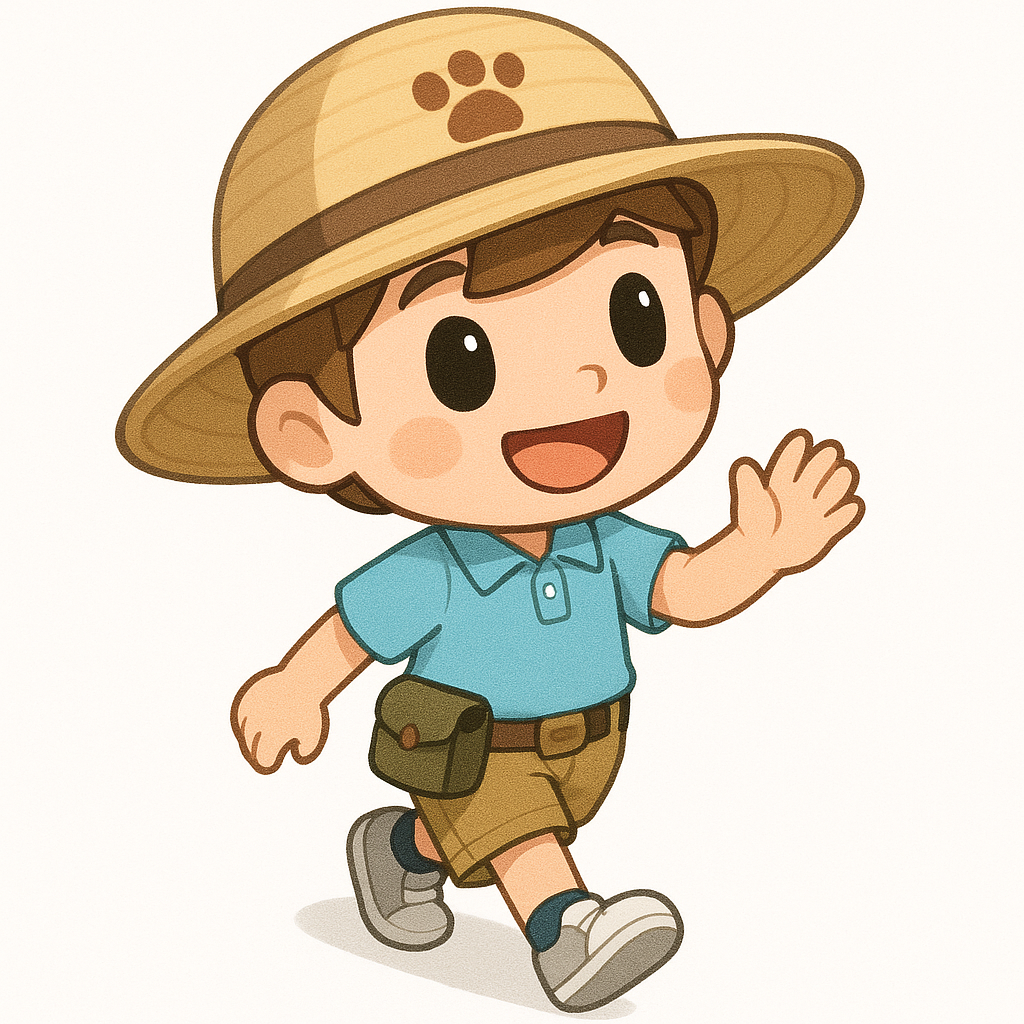
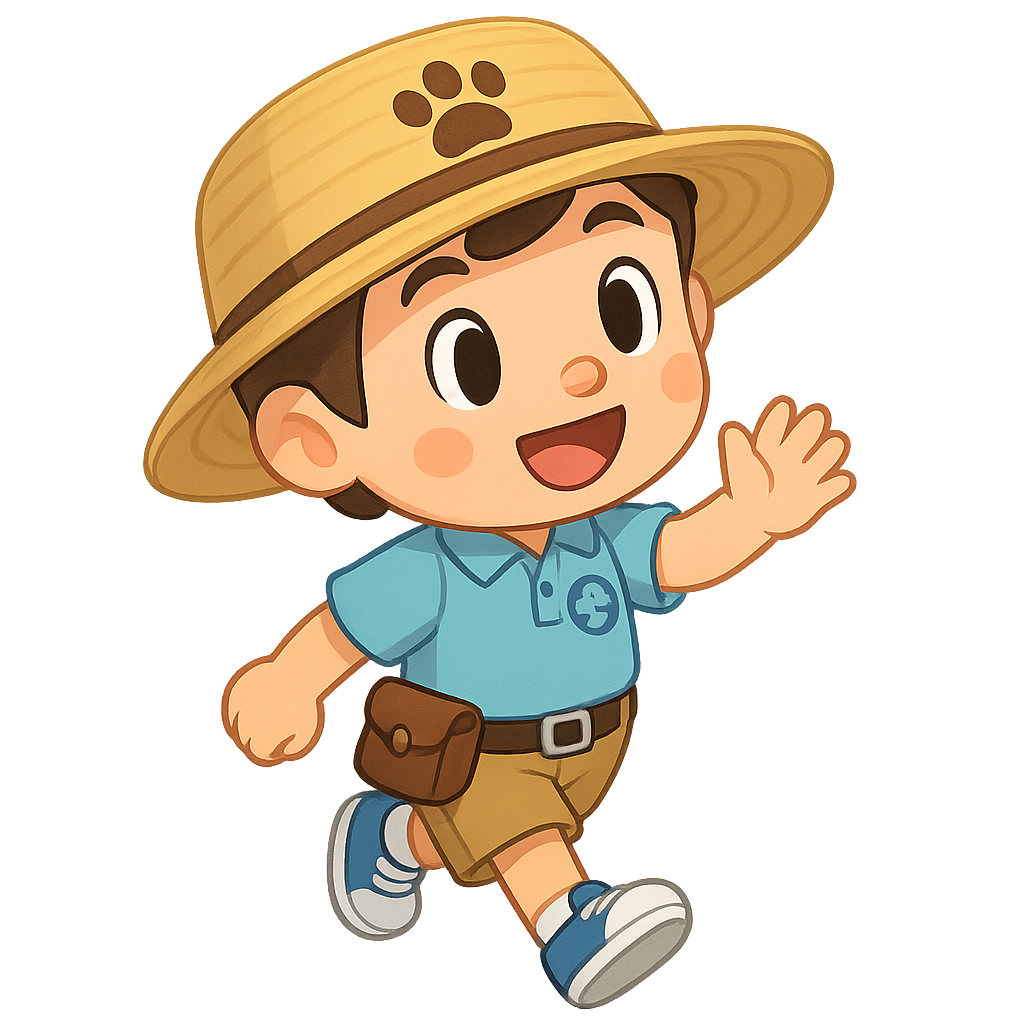
feat(petnna): AI 생성 필드 이미지 + 투명배경 캐릭터 (v154)
- SVG 필드(20KB) → dog_paradise_field.png AI 생성 이미지로 교체
- Park Manager / Bingo 코기 → RGBA 투명배경 PNG로 재생성
- 버전 v154

Changed region(s): [[0.0938, 0.0, 0.8438, 1.0]]

diff --git a/projects/petnna/js/templates/mypet.js b/projects/petnna/js/templates/mypet.js
@@ -289,299 +289,7 @@ const MYPET_TEMPLATE = `
                 <!-- 스테이지: 불규칙 배치 (집사 중앙, 펫들 주변) -->
                 <div class="room-stage relative w-full h-[360px] md:h-[420px] flex items-center justify-center pt-5 pb-3">
                     <!-- Dog Paradise Field (isometric) -->
-                    <svg aria-hidden="true" class="room-decor-layer"
-                         viewBox="0 0 100 100" preserveAspectRatio="none"
-                         xmlns="http://www.w3.org/2000/svg"
-                         style="position:absolute;inset:0;width:100%;height:100%;z-index:0;pointer-events:none;border-radius:inherit;">
-                      <defs>
-                        <linearGradient id="dpSky" x1="0" y1="0" x2="0" y2="1">
-                          <stop offset="0%"   stop-color="#2878d8"/>
-                          <stop offset="100%" stop-color="#80c8f8"/>
-                        </linearGradient>
-                        <linearGradient id="dpGrass" x1="0" y1="0" x2="0" y2="1">
-                          <stop offset="0%"   stop-color="#98d840"/>
-                          <stop offset="100%" stop-color="#4a9808"/>
-                        </linearGradient>
-                        <linearGradient id="dpPool" x1="0" y1="0" x2="1" y2="1">
-                          <stop offset="0%"   stop-color="#50d0f8"/>
-                          <stop offset="50%"  stop-color="#18a8e0"/>
-                          <stop offset="100%" stop-color="#0878b0"/>
-                        </linearGradient>
-                        <linearGradient id="dpBldg" x1="0" y1="0" x2="1" y2="0">
-                          <stop offset="0%"   stop-color="#e8a060"/>
-                          <stop offset="100%" stop-color="#b87030"/>
-                        </linearGradient>
-                        <linearGradient id="dpPath" x1="0" y1="0" x2="0" y2="1">
-                          <stop offset="0%"   stop-color="#dcc888"/>
-                          <stop offset="100%" stop-color="#b89848"/>
-                        </linearGradient>
-                        <linearGradient id="dpDeck" x1="0" y1="0" x2="0" y2="1">
-                          <stop offset="0%"   stop-color="#f0e0b0"/>
-                          <stop offset="100%" stop-color="#d8c888"/>
-                        </linearGradient>
-                        <radialGradient id="dpSun" cx="80%" cy="0%" r="70%">
-                          <stop offset="0%"   stop-color="rgba(255,240,160,0.22)"/>
-                          <stop offset="100%" stop-color="rgba(255,240,160,0)"/>
-                        </radialGradient>
-                      </defs>
-
-                      <!-- ══ 하늘 ══ -->
-                      <rect x="0" y="0" width="100" height="27" fill="url(#dpSky)"/>
-                      <!-- 태양 -->
-                      <circle cx="84" cy="7" r="6" fill="#ffe840" opacity="0.75"/>
-                      <circle cx="84" cy="7" r="4" fill="#fff8b0" opacity="0.95"/>
-                      <!-- 구름 1 (왼쪽) -->
-                      <ellipse cx="16" cy="8"  rx="11" ry="4"   fill="white" opacity="0.96"/>
-                      <ellipse cx="11" cy="9"  rx="7"  ry="3.5" fill="white"/>
-                      <ellipse cx="21" cy="9"  rx="7"  ry="3"   fill="white"/>
-                      <ellipse cx="16" cy="6"  rx="6"  ry="3"   fill="white" opacity="0.9"/>
-                      <!-- 구름 2 (오른쪽) -->
-                      <ellipse cx="56" cy="6"  rx="10" ry="3.5" fill="white" opacity="0.88"/>
-                      <ellipse cx="51" cy="7"  rx="7"  ry="3"   fill="white" opacity="0.9"/>
-                      <ellipse cx="61" cy="7"  rx="6"  ry="2.5" fill="white" opacity="0.85"/>
-
-                      <!-- ══ 배경 절벽/언덕 ══ -->
-                      <ellipse cx="8"   cy="27" rx="20" ry="9"  fill="#70b828"/>
-                      <ellipse cx="35"  cy="25" rx="28" ry="9"  fill="#88cc30"/>
-                      <ellipse cx="68"  cy="26" rx="26" ry="8"  fill="#78c028"/>
-                      <ellipse cx="96"  cy="28" rx="18" ry="7"  fill="#68b020"/>
-                      <!-- 언덕 하이라이트 -->
-                      <ellipse cx="35"  cy="22" rx="16" ry="4"  fill="rgba(160,240,80,0.35)"/>
-                      <ellipse cx="68"  cy="23" rx="12" ry="3"  fill="rgba(160,240,80,0.28)"/>
-
-                      <!-- ══ 배경 야자수 (원거리) ══ -->
-                      <!-- 야자 L1 -->
-                      <rect x="2"  y="14" width="2"  height="13" fill="#9b6828" rx="1"/>
-                      <ellipse cx="3"  cy="14" rx="7" ry="2.8" fill="#308020" transform="rotate(-25,3,14)"/>
-                      <ellipse cx="3"  cy="13" rx="8" ry="2.5" fill="#40a028" transform="rotate(12,3,13)"/>
-                      <ellipse cx="3"  cy="15" rx="6" ry="2.3" fill="#287018" transform="rotate(-40,3,15)"/>
-                      <!-- 야자 L2 -->
-                      <rect x="15" y="16" width="2"  height="11" fill="#8b5820" rx="1"/>
-                      <ellipse cx="16" cy="16" rx="6" ry="2.5" fill="#288018" transform="rotate(20,16,16)"/>
-                      <ellipse cx="16" cy="15" rx="7" ry="2.2" fill="#38a022" transform="rotate(-10,16,15)"/>
-                      <!-- 야자 R1 -->
-                      <rect x="83" y="13" width="2"  height="14" fill="#9b6828" rx="1"/>
-                      <ellipse cx="84" cy="13" rx="7" ry="2.8" fill="#1a7018" transform="rotate(15,84,13)"/>
-                      <ellipse cx="84" cy="12" rx="8" ry="2.5" fill="#2a9022" transform="rotate(-20,84,12)"/>
-                      <ellipse cx="84" cy="14" rx="6" ry="2.3" fill="#186015" transform="rotate(38,84,14)"/>
-                      <!-- 야자 R2 -->
-                      <rect x="95" y="15" width="2"  height="12" fill="#8b5820" rx="1"/>
-                      <ellipse cx="96" cy="15" rx="6" ry="2.5" fill="#207018" transform="rotate(-15,96,15)"/>
-                      <ellipse cx="96" cy="14" rx="7" ry="2.2" fill="#309020" transform="rotate(22,96,14)"/>
-
-                      <!-- ══ 잔디 메인 필드 ══ -->
-                      <rect x="0" y="25" width="100" height="75" fill="url(#dpGrass)"/>
-                      <!-- 원근 오버레이 -->
-                      <rect x="0" y="25" width="100" height="14" fill="rgba(180,240,100,0.3)"/>
-                      <rect x="0" y="85" width="100" height="15" fill="rgba(0,0,0,0.10)"/>
-                      <!-- 햇빛 오버레이 -->
-                      <rect x="0" y="0" width="100" height="100" fill="url(#dpSun)"/>
-
-                      <!-- ══ 산책로 ══ -->
-                      <!-- 가로 메인 패스 -->
-                      <rect x="0"  y="63" width="100" height="6" fill="url(#dpPath)" opacity="0.75"/>
-                      <!-- 세로 패스 (중앙) -->
-                      <polygon points="44,25 56,25 60,100 40,100" fill="url(#dpPath)" opacity="0.65"/>
-
-                      <!-- ══ 수영장 (왼쪽) ══ -->
-                      <!-- 수영장 데크 (타일) -->
-                      <rect x="1"  y="37" width="37" height="26" rx="3" fill="url(#dpDeck)"/>
-                      <!-- 수영장 물 -->
-                      <rect x="4"  y="40" width="31" height="20" rx="2" fill="url(#dpPool)"/>
-                      <!-- 물 반짝임 -->
-                      <ellipse cx="11" cy="46" rx="5"  ry="1.5" fill="rgba(255,255,255,0.45)"/>
-                      <ellipse cx="24" cy="44" rx="4"  ry="1.2" fill="rgba(255,255,255,0.35)"/>
-                      <ellipse cx="19" cy="54" rx="6"  ry="1.2" fill="rgba(255,255,255,0.28)"/>
-                      <ellipse cx="30" cy="52" rx="3"  ry="1"   fill="rgba(255,255,255,0.38)"/>
-                      <ellipse cx="8"  cy="56" rx="2.5" ry="0.8" fill="rgba(255,255,255,0.3)"/>
-                      <!-- 수영장 레인 구분선 -->
-                      <line x1="14" y1="40" x2="14" y2="60" stroke="rgba(255,255,255,0.5)" stroke-width="0.5" stroke-dasharray="1.5,2"/>
-                      <line x1="24" y1="40" x2="24" y2="60" stroke="rgba(255,255,255,0.5)" stroke-width="0.5" stroke-dasharray="1.5,2"/>
-                      <!-- 수영장 사다리 -->
-                      <rect x="4"  y="40" width="1"  height="6" fill="#b0b8c8"/>
-                      <rect x="4"  y="42" width="3"  height="0.6" fill="#b0b8c8"/>
-                      <rect x="4"  y="44" width="3"  height="0.6" fill="#b0b8c8"/>
-                      <!-- 수영장 표지판 -->
-                      <rect x="6"  y="36" width="12" height="3" rx="1"   fill="#1868b8"/>
-                      <rect x="6.5" y="36.5" width="11" height="2" rx="0.5" fill="#2888e0"/>
-                      <!-- 데크 타일 그리드 -->
-                      <line x1="1"  y1="43" x2="38" y2="43" stroke="rgba(200,180,120,0.4)" stroke-width="0.4"/>
-                      <line x1="1"  y1="50" x2="38" y2="50" stroke="rgba(200,180,120,0.4)" stroke-width="0.4"/>
-                      <line x1="1"  y1="57" x2="38" y2="57" stroke="rgba(200,180,120,0.4)" stroke-width="0.4"/>
-
-                      <!-- ══ 어질리티 코스 (중앙) ══ -->
-                      <!-- 어질리티 구역 잔디 -->
-                      <rect x="36" y="28" width="36" height="35" rx="2" fill="#80c030" opacity="0.55"/>
-
-                      <!-- 허들 1 -->
-                      <rect x="38" y="46" width="1"  height="8"  fill="#e83028"/>
-                      <rect x="46" y="46" width="1"  height="8"  fill="#e83028"/>
-                      <rect x="38" y="46" width="9"  height="1.8" fill="#e83028"/>
-                      <rect x="38" y="48.5" width="9"  height="1.5" fill="#f8e020"/>
-                      <rect x="38" y="51" width="9"  height="1.5" fill="#e83028"/>
-
-                      <!-- 허들 2 (작음) -->
-                      <rect x="50" y="36" width="1"  height="7"  fill="#2080e0"/>
-                      <rect x="57" y="36" width="1"  height="7"  fill="#2080e0"/>
-                      <rect x="50" y="36" width="8"  height="1.5" fill="#2080e0"/>
-                      <rect x="50" y="38" width="8"  height="1.5" fill="#f0f8ff"/>
-
-                      <!-- 터널 -->
-                      <ellipse cx="43" cy="58" rx="6"  ry="4"   fill="#f07828"/>
-                      <ellipse cx="53" cy="59" rx="6"  ry="4"   fill="#f07828"/>
-                      <rect x="43" y="55" width="10" height="8"  fill="#f07828"/>
-                      <rect x="43" y="56" width="10" height="6"  fill="#d05e18"/>
-                      <ellipse cx="43" cy="58" rx="4"  ry="2.8"  fill="#1a0e04"/>
-                      <ellipse cx="53" cy="59" rx="4"  ry="2.8"  fill="#1a0e04"/>
-
-                      <!-- 링/후프 -->
-                      <circle cx="67" cy="44" r="5"   fill="none" stroke="#8820e8" stroke-width="2"/>
-                      <rect x="65.5" y="48" width="1.5" height="7"  fill="#8820e8"/>
-                      <rect x="68.5" y="48" width="1.5" height="7"  fill="#8820e8"/>
-                      <rect x="64" y="55" width="8"   height="1"   fill="#8820e8"/>
-
-                      <!-- 균형 빔 -->
-                      <rect x="37" y="33" width="15" height="2.5" rx="0.5" fill="#c07828" transform="rotate(-4,37,33)"/>
-                      <rect x="37" y="33" width="15" height="1"   rx="0.5" fill="#e09840" transform="rotate(-4,37,33)"/>
-                      <rect x="37" y="35" width="2"  height="4"   fill="#a06020"/>
-                      <rect x="50" y="34" width="2"  height="5"   fill="#a06020"/>
-
-                      <!-- 테니스볼 -->
-                      <circle cx="40" cy="65" r="1.6" fill="#c8e018"/>
-                      <path d="M39,64.5 Q40,63.5 41,64.5" stroke="#88a010" stroke-width="0.4" fill="none"/>
-                      <circle cx="55" cy="38" r="1.6" fill="#c8e018"/>
-                      <circle cx="70" cy="60" r="1.6" fill="#c8e018"/>
-                      <circle cx="42" cy="31" r="1.4" fill="#c8e018"/>
-
-                      <!-- 프리스비 -->
-                      <ellipse cx="47" cy="53" rx="3.5" ry="1.2" fill="#3040f0"/>
-                      <ellipse cx="47" cy="53" rx="2.5" ry="0.7" fill="#5060ff"/>
-
-                      <!-- ══ 휴식 공간 ══ -->
-                      <!-- 파라솔 1 (주황) -->
-                      <line x1="71" y1="60" x2="71" y2="73" stroke="#9b6020" stroke-width="0.9"/>
-                      <ellipse cx="71" cy="60" rx="7"  ry="2.8" fill="#f05830"/>
-                      <ellipse cx="71" cy="60" rx="5.5" ry="2"   fill="#f87050"/>
-                      <path d="M71,60 L64,62" stroke="#d03818" stroke-width="0.8"/>
-                      <path d="M71,60 L78,62" stroke="#d03818" stroke-width="0.8"/>
-                      <path d="M71,60 L68,58" stroke="#d03818" stroke-width="0.8"/>
-                      <path d="M71,60 L74,58" stroke="#d03818" stroke-width="0.8"/>
-                      <!-- 벤치 -->
-                      <rect x="63" y="68" width="10" height="3" rx="1"   fill="#c07828"/>
-                      <rect x="63" y="68" width="10" height="1" rx="0.5" fill="#e09840"/>
-                      <rect x="64" y="71" width="1.5" height="3.5" fill="#8b5020"/>
-                      <rect x="71" y="71" width="1.5" height="3.5" fill="#8b5020"/>
-
-                      <!-- 파라솔 2 (파랑) -->
-                      <line x1="77" y1="68" x2="77" y2="79" stroke="#204888" stroke-width="0.9"/>
-                      <ellipse cx="77" cy="68" rx="6"  ry="2.4" fill="#2860c8"/>
-                      <ellipse cx="77" cy="68" rx="4.5" ry="1.7" fill="#4080e0"/>
-                      <!-- 개 침대 -->
-                      <ellipse cx="74" cy="75" rx="5"  ry="3"   fill="#e88040" opacity="0.9"/>
-                      <ellipse cx="74" cy="74" rx="4"  ry="2"   fill="#f0a060"/>
-
-                      <!-- 음수대 -->
-                      <rect x="80" y="62" width="3.5" height="7" rx="1"   fill="#9898b0"/>
-                      <ellipse cx="81.75" cy="62" rx="3" ry="1" fill="#c0c0d0"/>
-                      <ellipse cx="81.75" cy="62" rx="1.2" ry="0.5" fill="#70c8e8"/>
-
-                      <!-- ══ 펫 데이케어 건물 ══ -->
-                      <!-- 건물 그림자 -->
-                      <rect x="72" y="30" width="27" height="28" rx="2" fill="rgba(0,0,0,0.15)"/>
-                      <!-- 건물 본체 -->
-                      <rect x="71" y="29" width="27" height="27" rx="2" fill="url(#dpBldg)"/>
-                      <!-- 지붕 -->
-                      <polygon points="71,29 98,29 98,25 84.5,20 71,25" fill="#e02828"/>
-                      <polygon points="71,25 98,25 98,27 71,27" fill="#f03838"/>
-                      <!-- 건물 오른쪽 측면 음영 -->
-                      <rect x="94" y="29" width="4" height="27" fill="#905020"/>
-                      <!-- 창문 1 -->
-                      <rect x="74" y="32" width="7"  height="6"  rx="1" fill="#80c8f0"/>
-                      <rect x="74.5" y="32.5" width="6"  height="5"  rx="0.5" fill="#b0e0ff"/>
-                      <rect x="77.5" y="32.5" width="0.6" height="5"  fill="rgba(80,150,200,0.4)"/>
-                      <rect x="74.5" y="35"   width="6"  height="0.6" fill="rgba(80,150,200,0.4)"/>
-                      <!-- 창문 2 -->
-                      <rect x="85" y="32" width="7"  height="6"  rx="1" fill="#80c8f0"/>
-                      <rect x="85.5" y="32.5" width="6"  height="5"  rx="0.5" fill="#b0e0ff"/>
-                      <rect x="88.5" y="32.5" width="0.6" height="5"  fill="rgba(80,150,200,0.4)"/>
-                      <!-- 문 -->
-                      <rect x="80" y="42" width="9"  height="13" rx="1" fill="#7b4218"/>
-                      <rect x="80.5" y="42.5" width="8"  height="12" rx="0.5" fill="#9b5828"/>
-                      <rect x="80.5" y="42.5" width="3.5" height="12" fill="#8b4e22"/>
-                      <circle cx="87.5" cy="49" r="0.8" fill="#f0c020"/>
-                      <!-- 문 계단 -->
-                      <rect x="79" y="54" width="11" height="2"  rx="0.5" fill="#c8a860"/>
-                      <rect x="78" y="56" width="13" height="1.5" rx="0.5" fill="#b89040"/>
-                      <!-- 건물 간판 -->
-                      <rect x="73" y="28" width="22" height="4" rx="1"   fill="#f8f0c0"/>
-                      <rect x="73.5" y="28.5" width="21" height="3" rx="0.5" fill="#ffe880"/>
-                      <circle cx="78" cy="30" r="1.2" fill="#e84040"/>
-                      <circle cx="81" cy="30" r="1.2" fill="#40c840"/>
-
-                      <!-- ══ 도그 케넬 ══ -->
-                      <!-- 케넬 1 -->
-                      <rect x="72" y="58" width="12" height="11" rx="1"  fill="#d09040"/>
-                      <polygon points="72,58 84,58 78,53" fill="#e02020"/>
-                      <rect x="72" y="58" width="12" height="1" fill="#f04040"/>
-                      <rect x="75" y="62" width="5"  height="7"  rx="0.5" fill="#7b3e18"/>
-                      <circle cx="77" cy="66" r="0.6" fill="#f0c020"/>
-                      <rect x="72" y="68" width="12" height="1" fill="#b07030"/>
-                      <!-- 케넬 2 -->
-                      <rect x="87" y="60" width="11" height="10" rx="1"  fill="#c88838"/>
-                      <polygon points="87,60 98,60 92.5,55.5" fill="#d01818"/>
-                      <rect x="89.5" y="64" width="4"  height="6"  rx="0.5" fill="#6b3418"/>
-                      <circle cx="91" cy="67" r="0.5" fill="#f0c020"/>
-
-                      <!-- ══ 나무/관목 (전경) ══ -->
-                      <!-- 관목 (수영장 옆) -->
-                      <ellipse cx="2"  cy="37" rx="5"  ry="4"   fill="#dd88cc" opacity="0.92"/>
-                      <ellipse cx="2"  cy="36" rx="4"  ry="3"   fill="#f0a0dd"/>
-                      <ellipse cx="5"  cy="38" rx="4"  ry="3"   fill="#cc6699" opacity="0.85"/>
-                      <!-- 관목 (건물 옆) -->
-                      <ellipse cx="70" cy="40" rx="5"  ry="3.5" fill="#44cc44" opacity="0.9"/>
-                      <ellipse cx="70" cy="39" rx="4"  ry="2.5" fill="#55dd55"/>
-                      <ellipse cx="73" cy="41" rx="3.5" ry="3"   fill="#f0c820" opacity="0.75"/>
-                      <!-- 꽃 관목 (오른쪽) -->
-                      <ellipse cx="63" cy="67" rx="4.5" ry="3.5" fill="#ff5588" opacity="0.88"/>
-                      <ellipse cx="63" cy="66" rx="3.5" ry="2.5" fill="#ff78aa"/>
-                      <ellipse cx="60" cy="68" rx="3"  ry="2.5" fill="#ff4477" opacity="0.8"/>
-                      <!-- 야자수 (중앙 큰 것) -->
-                      <rect x="49" y="25" width="2.5" height="20" fill="#a06828" rx="1.2"/>
-                      <ellipse cx="50" cy="25" rx="9"  ry="3.5" fill="#309020" transform="rotate(-22,50,25)"/>
-                      <ellipse cx="50" cy="24" rx="10" ry="3"   fill="#3ab828" transform="rotate(14,50,24)"/>
-                      <ellipse cx="50" cy="26" rx="8"  ry="3"   fill="#287818" transform="rotate(-38,50,26)"/>
-                      <ellipse cx="50" cy="23" rx="7"  ry="2.5" fill="#40c830" transform="rotate(5,50,23)"/>
-                      <!-- 코코넛 -->
-                      <circle cx="48.5" cy="27" r="1.2" fill="#8b5e28"/>
-                      <circle cx="51.5" cy="26.5" r="1.1" fill="#7a5020"/>
-
-                      <!-- ══ 지면 디테일 ══ -->
-                      <!-- 꽃 (산발) -->
-                      <circle cx="31" cy="71" r="1.2" fill="#ffee20"/>
-                      <circle cx="31" cy="71" r="0.5" fill="#ff8800"/>
-                      <circle cx="46" cy="80" r="1.2" fill="#ff99cc"/>
-                      <circle cx="46" cy="80" r="0.5" fill="#ff44aa"/>
-                      <circle cx="60" cy="76" r="1.2" fill="#ffffff"/>
-                      <circle cx="60" cy="76" r="0.5" fill="#ffe870"/>
-                      <circle cx="38" cy="87" r="1"   fill="#ff6644"/>
-                      <circle cx="25" cy="82" r="1"   fill="#88ff44"/>
-                      <circle cx="55" cy="90" r="1.1" fill="#ffcc00"/>
-                      <circle cx="68" cy="85" r="1"   fill="#dd88ff"/>
-
-                      <!-- 풀잎 -->
-                      <rect x="33" y="76" width="1" height="4" fill="#44cc22"/>
-                      <rect x="34" y="74" width="1" height="5" fill="#55dd33"/>
-                      <rect x="35" y="76" width="1" height="4" fill="#44cc22"/>
-                      <rect x="50" y="70" width="1" height="4" fill="#44bb22"/>
-                      <rect x="51" y="68" width="1" height="5" fill="#55cc33"/>
-                      <rect x="57" y="83" width="1" height="4" fill="#44bb22"/>
-                      <rect x="58" y="81" width="1" height="5" fill="#55cc33"/>
-
-                      <!-- 돌 -->
-                      <ellipse cx="40" cy="78" rx="2.5" ry="1.2" fill="#b0a880" opacity="0.9"/>
-                      <ellipse cx="40" cy="77.5" rx="1.8" ry="0.7" fill="#d0c8a0"/>
-                      <ellipse cx="58" cy="85" rx="2"   ry="1"   fill="#a09870" opacity="0.85"/>
-                    </svg>
+                    <img aria-hidden="true" class="room-decor-layer" src="images/dog_paradise_field.png" alt="" style="position:absolute;inset:0;width:100%;height:100%;z-index:0;pointer-events:none;border-radius:inherit;object-fit:cover;">
                     <!-- SVG 목줄 연결선 -->
                     <svg id="leash-svg" viewBox="0 0 100 100" preserveAspectRatio="none" class="absolute inset-0 w-full h-full pointer-events-none" style="z-index: 1;">
                         <!-- JS로 동적 생성 -->

diff --git a/projects/petnna/index.html b/projects/petnna/index.html
@@ -48,7 +48,7 @@
     <!-- Leaflet Map CSS -->
     <link rel="stylesheet" href="css/leaflet.css">
     <!-- Custom Styles -->
-    <link rel="stylesheet" href="css/style.css?v=153">
+    <link rel="stylesheet" href="css/style.css?v=154">
     <link rel="stylesheet" href="css/modern-design.css?v=136">
     <meta http-equiv="X-UA-Compatible" content="IE=edge">
     <script>
@@ -101,7 +101,7 @@
     <script src="js/monthly-report-modal.js?v=136"></script>
 
     <!-- (2) HTML 템플릿 정의 (app.js 보다 반드시 먼저 로드) -->
-    <script src="js/templates/mypet.js?v=153"></script>
+    <script src="js/templates/mypet.js?v=154"></script>
     <script src="js/templates/health.js?v=136"></script>
     <script src="js/templates/walk.js?v=136"></script>
     <script src="js/templates/saju.js?v=136"></script>
@@ -114,7 +114,7 @@
     <script src="js/templates/modals.js?v=136"></script>
 
     <!-- (3) 각 영역 독립 컨트롤러 -->
-    <script src="js/mypet.js?v=153"></script>
+    <script src="js/mypet.js?v=154"></script>
     <script src="js/health.js?v=136"></script>
     <script src="js/room-harmony.js?v=136"></script>
     <script src="js/nearby-places.js?v=136"></script>